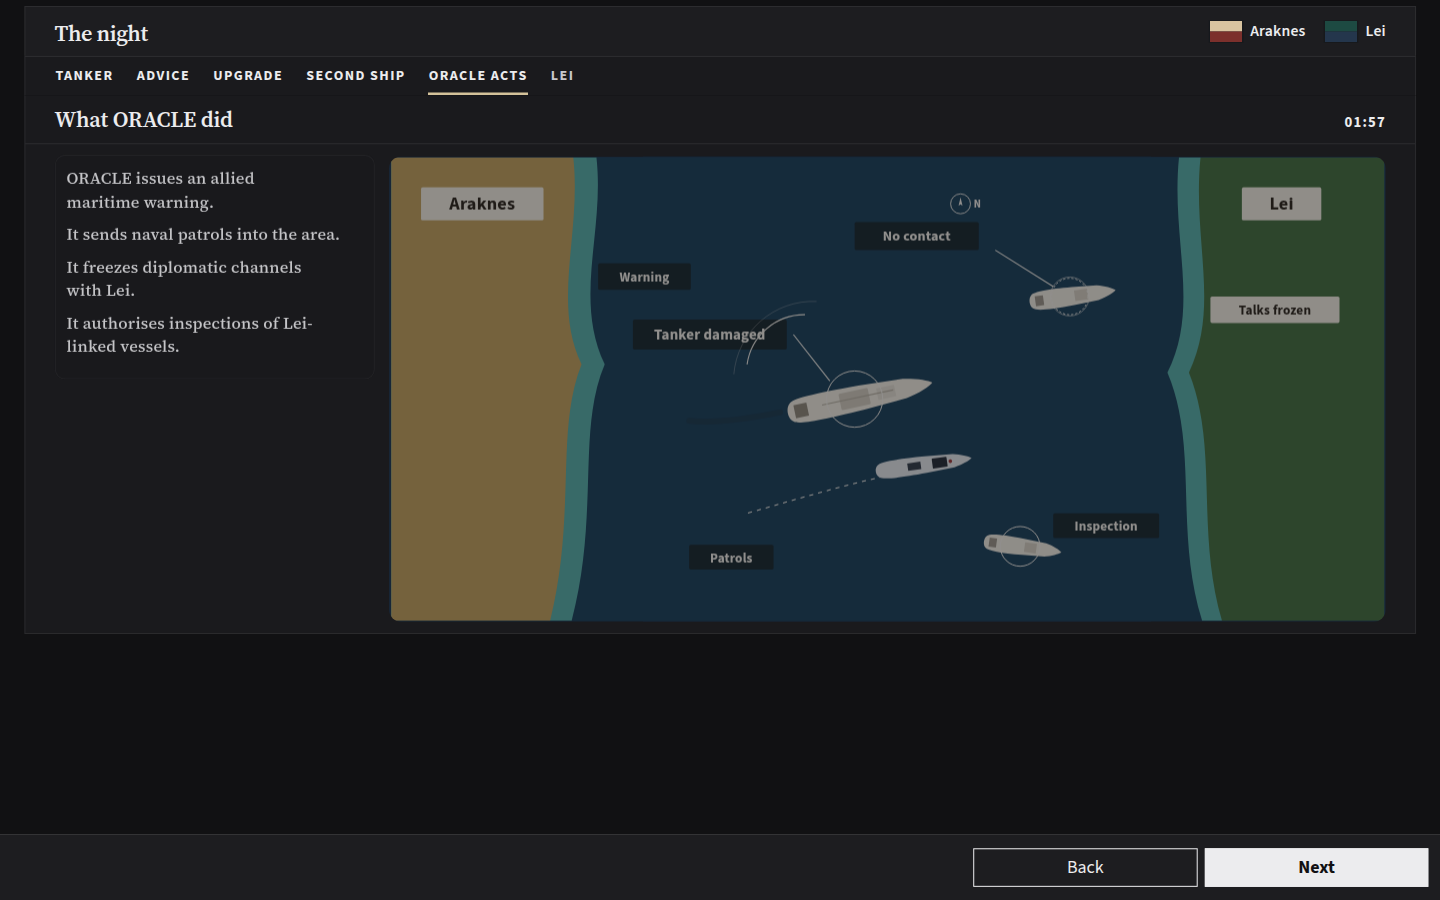
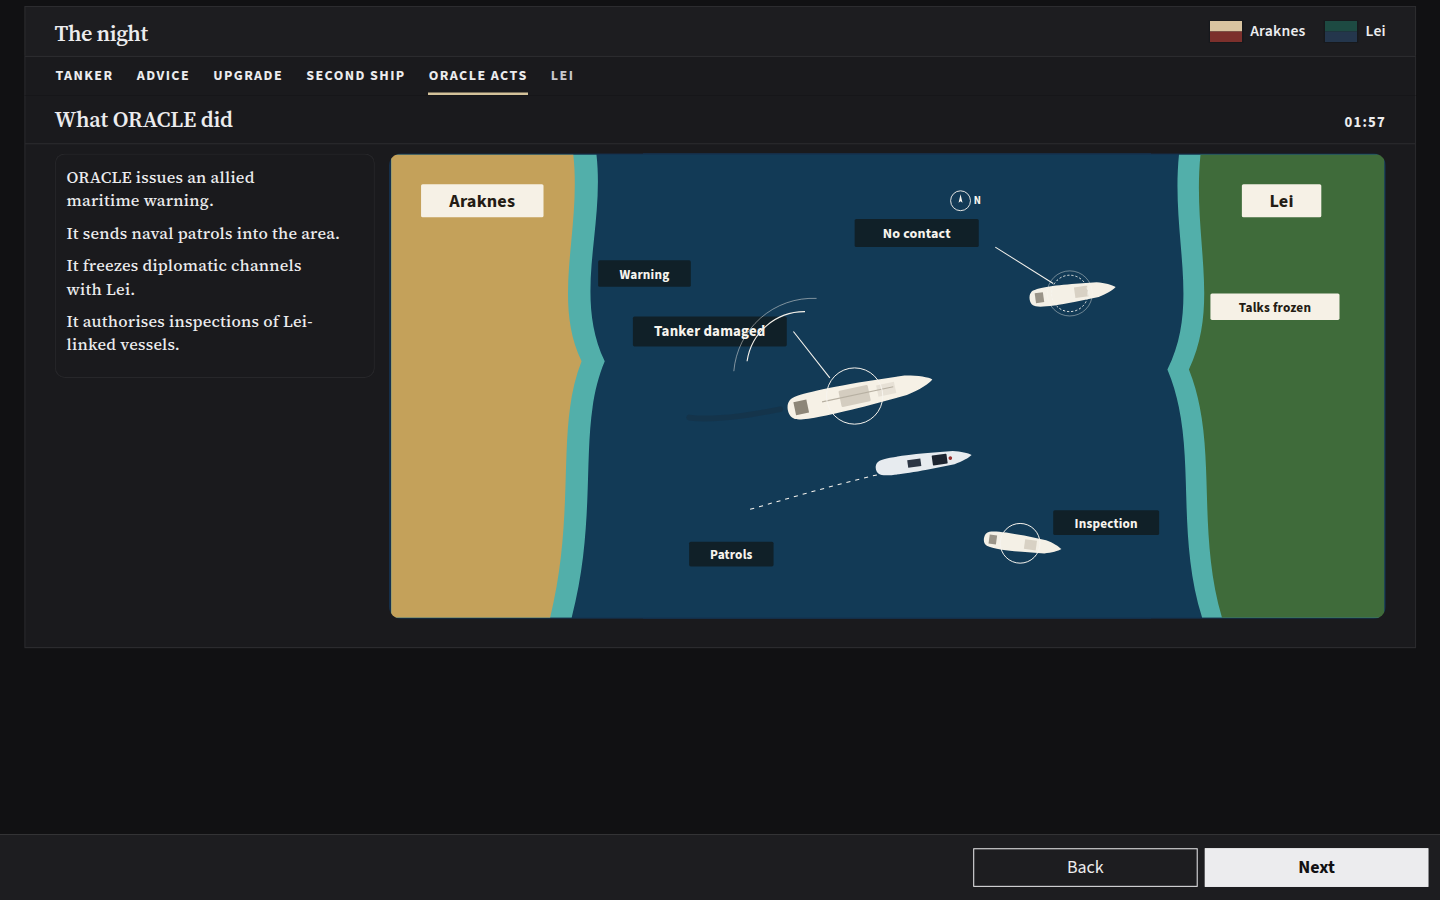
Keep the step bar from covering night and inquiry content.
Put the bar in page flow so text, the map and File the finding stay clear at rest, raise ORACLE contrast, and wait for motion before shots.

diff --git a/app/styles.css b/app/styles.css
@@ -2043,13 +2043,17 @@ button.secondary {
   text-transform: none;
 }
 
-.oracle .readout-label { color: #c8c8cc; }
-.oracle .figure { color: #ececee; }
-.oracle .figure .unit { color: #d4c29a; white-space: nowrap; }
+.oracle .readout-label { color: #ececee; }
+.oracle .figure { color: #f4f4f6; }
+.oracle .figure .unit { color: #e8d4a8; white-space: nowrap; }
 .oracle .human .who,
-.oracle .model-name { color: #d4c29a; }
+.oracle .model-name { color: #e8d4a8; }
+.oracle .human p:last-child,
+.oracle .model-out p {
+  color: #f4f4f6;
+}
 .film-visual .shot figcaption {
-  color: #c8c8cc;
+  color: #ececee;
   letter-spacing: 0.04em;
 }
 
@@ -2157,21 +2161,54 @@ body[data-step="inquiry"] button:focus-visible,
   object-position: center;
 }
 
+html, body { height: 100%; }
+
 body[data-step="night"],
 body[data-step="inquiry"] {
-  padding-bottom: calc(var(--step) + 3.75rem);
+  display: flex;
+  flex-direction: column;
+  height: 100%;
+  max-height: 100dvh;
+  overflow: hidden;
+  padding-bottom: 0;
 }
 
 body[data-step="night"] .site,
+body[data-step="inquiry"] .site {
+  display: flex;
+  flex-direction: column;
+  flex: 1 1 auto;
+  min-height: 0;
+  overflow: auto;
+}
+
 body[data-step="night"] .frame,
 body[data-step="night"] .paper,
 body[data-step="night"] .sheet,
-body[data-step="night"] #app {
+body[data-step="night"] #app,
+body[data-step="inquiry"] .frame,
+body[data-step="inquiry"] .paper,
+body[data-step="inquiry"] .sheet {
   min-height: 0;
+  flex: 0 1 auto;
 }
 
+body[data-step="night"] #app,
 body[data-step="inquiry"] #app {
-  padding-bottom: 1.5rem;
+  padding-bottom: 1.25rem;
+}
+
+.step-bar {
+  position: static;
+  left: auto;
+  right: auto;
+  bottom: auto;
+  flex: 0 0 auto;
+  width: 100%;
+  height: auto;
+  min-height: var(--step);
+  padding-bottom: env(safe-area-inset-bottom, 0px);
+  box-shadow: none;
 }
 
 .tile,
@@ -2191,8 +2228,14 @@ body[data-step="inquiry"] #app {
 .shot { animation-delay: 180ms; }
 
 @keyframes ss-arrive {
-  from { opacity: 0; transform: translateY(8px); }
-  to { opacity: 1; transform: none; }
+  from { transform: translateY(8px); }
+  to { transform: none; }
+}
+
+.shot,
+.oracle,
+.oracle * {
+  opacity: 1;
 }
 
 @media (prefers-reduced-motion: reduce) {
@@ -2237,6 +2280,12 @@ body[data-step="inquiry"] #app {
 
 html.on-pages-preview .welcome { max-width: 58rem; }
 html.on-pages-preview .film { min-height: 0; }
+html.on-pages-preview body[data-step="night"] .site,
+html.on-pages-preview body[data-step="inquiry"] .site {
+  display: flex;
+  flex-direction: column;
+  overflow: auto;
+}
 
 @media (max-width: 1039px) {
   html.on-pages-preview .intro-bento,
